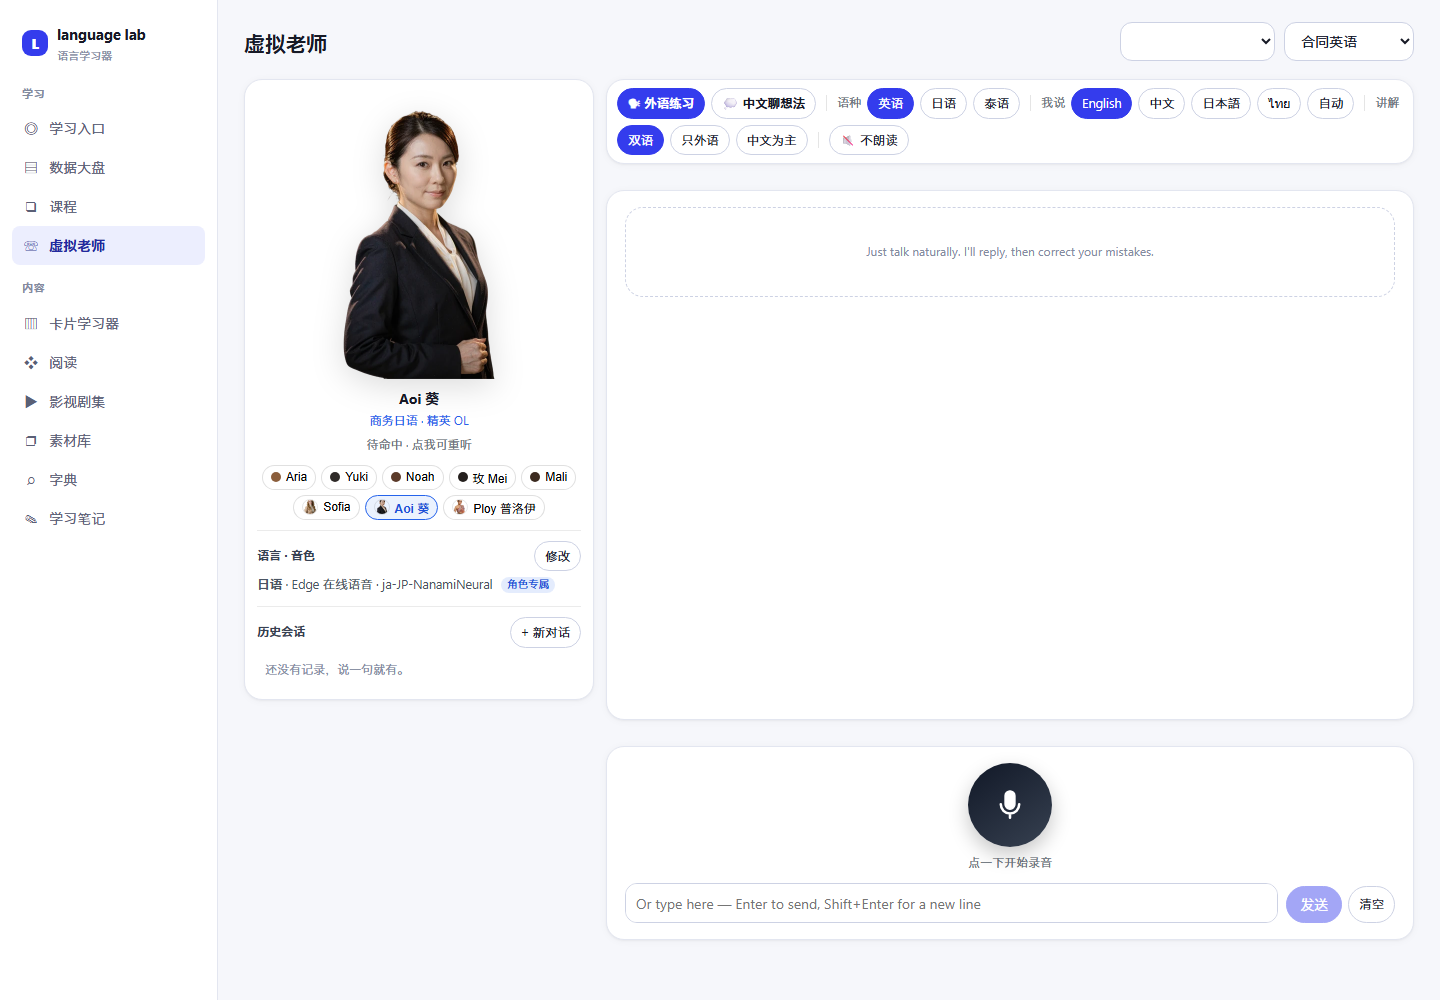
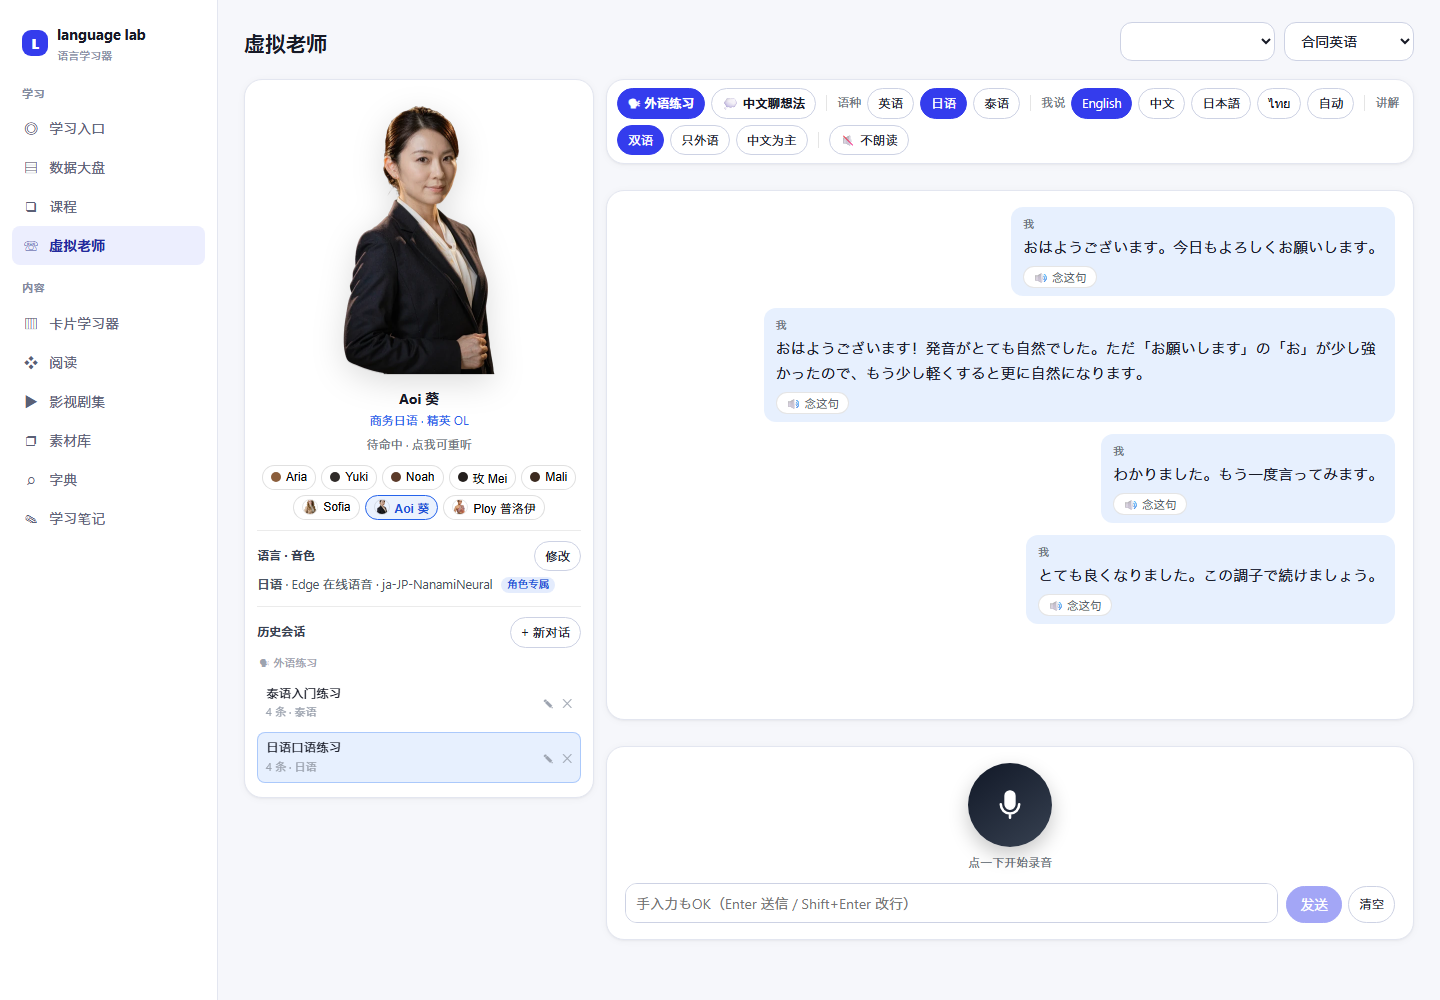
docs: 老师截图补历史对话；新增划词建卡效果图；修复 video_path 缺列
- teacher_aoi / teacher_ploy 改为带历史会话的截图
- README 虚拟老师一节改为一张一行；阅读器一节改用真实划词截图（原先误用素材库的图）
- 新增 reader_wordpick.png：阅读器里选中句子 → 弹出建卡浮层
- 修复：init.php 建表缺 materials.video_path，而 /api/materials/{id} 直接读它
  → PHP Warning 混进 JSON，前端 parse 失败、阅读器整页打不开（clone 的人都会遇到）
  · migrate.php 补列 · index.php 用 ?? null 兜底

diff --git a/backend/public/index.php b/backend/public/index.php
@@ -1149,8 +1149,10 @@ $app->get('/api/materials/{id}', function (Request $req, Response $res, array $a
             'file_size' => $m->file_size ? (int) $m->file_size : null,
             // 影视跟读：视频成品路径。前端靠它决定是否渲染 <video> ——
             // 之前这里漏了 video_path，导致素材明明已绑视频、前端却显示"未绑定视频文件"。
-            'video_path' => $m->video_path,
-            'has_video' => $m->video_path && is_file((string) $m->video_path),
+            // ⚠ 用 ?? 兜底：老库 / 未跑 migrate 的库缺这一列时，不能把 Warning 混进 JSON
+            //    （那会让前端 JSON.parse 失败、整个阅读器打不开）。
+            'video_path' => $m->video_path ?? null,
+            'has_video' => !empty($m->video_path) && is_file((string) $m->video_path),
             'series' => $m->series, 'season' => $m->season !== null ? (int) $m->season : null,
             'ep' => $m->ep, 'ep_title' => $m->ep_title,
             'ep_sort' => $m->ep_sort !== null ? (float) $m->ep_sort : null,

diff --git a/backend/scripts/migrate.php b/backend/scripts/migrate.php
@@ -144,6 +144,9 @@ if (hasTable('materials')) {
         'ep' => 'TEXT',            // 集号原文（'01' / '07.5'）
         'ep_title' => 'TEXT',      // 集标题或标记（'finale' / 'SP'）
         'ep_sort' => 'REAL',       // 排序用集号
+        // ⚠ init.php 建表时没有这一列，而 /api/materials/{id} 直接读它
+        //    → 缺列会让 PHP 抛 Warning 混进 JSON，前端 JSON.parse 失败、阅读器整页打不开。
+        'video_path' => 'TEXT',    // 影视跟读：视频文件路径
     ];
     foreach ($newCols as $c => $type) {
         if (!isset($cols[$c])) {

diff --git a/README.md b/README.md
@@ -111,16 +111,24 @@
 EPUB / PDF 内嵌原版排版，或按句渲染的**精读模式**（带对照译文）。
 读到不会的地方，**选中 → 一键成卡**，自动带上出处与语境。
 
+![在阅读器里划词建卡](docs/screenshots/reader_wordpick.png)
+
+素材支持上传文件、登记本地路径、粘贴文本、网址抓取：
+
 ![素材库](docs/screenshots/materials.png)
 
 ### 虚拟老师 · 本地发音诊断
-多角色对话（英语 / 日语 / 泰语），**形象随语言切换**，并且 —— 它会**真的听你念**：
-录音在本地用 whisper 分析，指出你哪里念错、含糊、卡壳，再给一条针对性的点评。
-**音频不出本机。**
+多角色对话（英语 / 日语 / 泰语），**形象随语言切换**，会话历史自动保存、随时接着聊。
+更重要的是 —— 它会**真的听你念**：录音在本地用 whisper 分析，
+指出你哪里念错、含糊、卡壳，再给一条针对性的点评。**音频不出本机。**
 
-| 日语 · Aoi | 泰语 · Ploy |
-|---|---|
-| ![Aoi](docs/screenshots/teacher_aoi.png) | ![Ploy](docs/screenshots/teacher_ploy.png) |
+**日语 · Aoi**
+
+![日语老师 Aoi](docs/screenshots/teacher_aoi.png)
+
+**泰语 · Ploy**
+
+![泰语老师 Ploy](docs/screenshots/teacher_ploy.png)
 
 ### 数据大盘
 核心指标 + 分阶段对比 + 182 天热力图。
